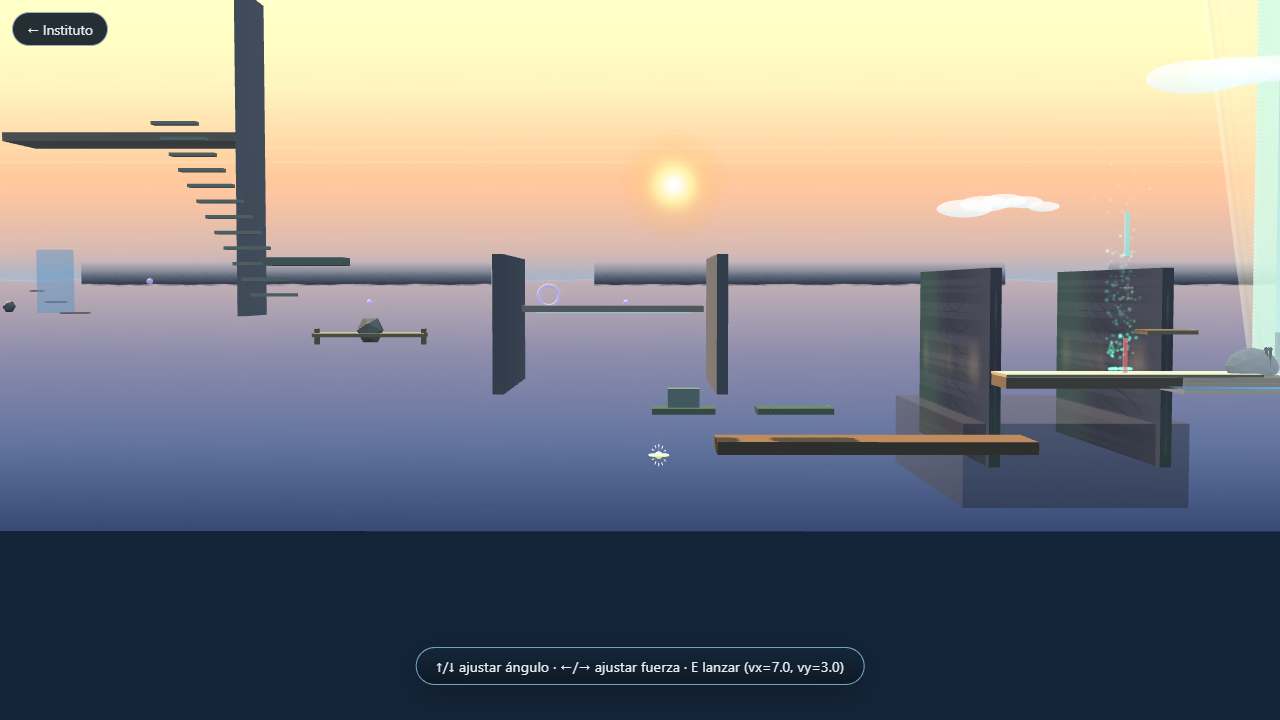
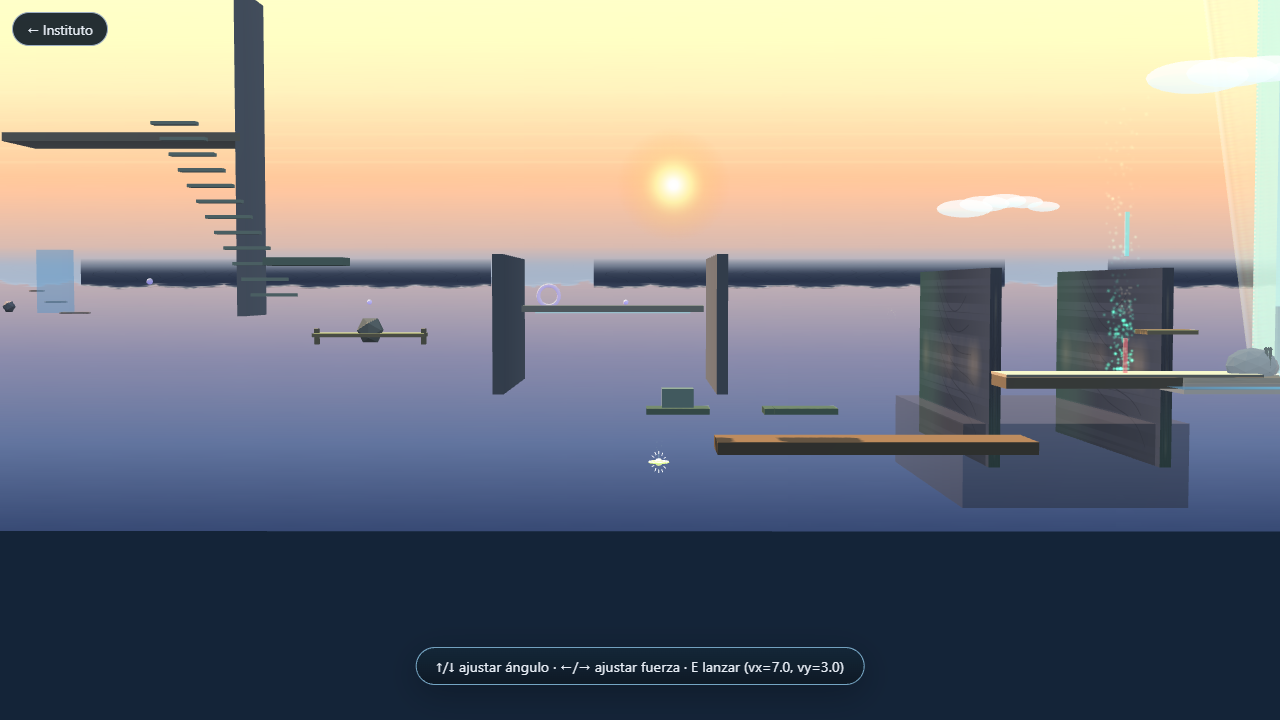
M0.5.2 Physica: rising-edge act/pred-sube + Scene 7 anillos real physics + Scene 8 velocity gate + cascadaObservada trigger

diff --git a/src/experiences/physica/babylonWorld.ts b/src/experiences/physica/babylonWorld.ts
@@ -954,6 +954,18 @@ export function createPhysicaWorld(hostEl: HTMLElement): PhysicaWorld {
   let anillo1Activo = false; // referencia
   let anillo2Activo = false; // vector
 
+  /* Estado analítico del contrapeso (Escena 7 anillo 0). Se integra con
+     `integrarInstrumento` a partir de la cobertura de la losa. El anillo
+     se activa cuando el modelo predice descenso Y la posición
+     realmente recorrida supera el umbral. */
+  const contrapesoYBase = estacionY + 3;
+  let contrapesoEstado: InstrumentoEstado = crearEstadoInstrumento(contrapesoYBase);
+  let contrapesoUpCover = 1;
+  /* Tiempo acumulado en el que la estación coincide con la plataforma
+     anclada (Escena 7 anillo 1). */
+  let anillo1TiempoEnMarco = 0;
+  const ANILLO1_TIEMPO_REQUERIDO = 1.5; // s
+
   const rocaFlotanteGeo = BABYLON.MeshBuilder.CreateIcoSphere('roca-flotante', { radius: 0.5, subdivisions: 1, flat: true }, scene);
   rocaFlotanteGeo.material = estilizado(0x7a7266, { alpha: 0.6, emissive: 0x5a5246 });
   rocaFlotanteGeo.position.set(estacionX + 8, estacionY + 8, 0);
@@ -1329,8 +1341,12 @@ export function createPhysicaWorld(hostEl: HTMLElement): PhysicaWorld {
         if (down && !input.jump) jumpEdge = true;
         input.jump = down;
         break;
-      case 'act': actEdge = down; break;
-      case 'pred-sube': predSubeEdge = down; break;
+      // Acciones de tipo "trigger": se arman en rising-edge (press=true).
+      // El release (down=false) NO las limpia — el update loop las consume
+      // y resetea. Esto permite que el harness invoque press(true) +
+      // press(false) en el mismo microtask sin perder el evento.
+      case 'act': if (down) actEdge = true; break;
+      case 'pred-sube': if (down) predSubeEdge = true; break;
       case 'bita': if (down) bitaEdge = true; break;
     }
   }
@@ -1495,21 +1511,14 @@ export function createPhysicaWorld(hostEl: HTMLElement): PhysicaWorld {
        Los tres anillos iluminan el material; la estación se estabiliza al
        completar los tres. */
 
-    if (planoInclinadoOk && !anillo0Activo && avatar.x >= W_E7_INICIO && avatar.x < W_E7_FIN &&
-        Math.abs(avatar.x - (estacionX + 5)) < 2 && Math.abs(avatar.y - (estacionY + 3)) < 1.5) {
-      losaEstacion.isVisible = true;
-      anillo0Activo = true;
-    anillos[0].material = anilloMat;
-    instrumento.speak('escena7_reconoce');
-    toast('Anillo exterior: la losa equilibra el contrapeso.');
-  }
-
-    if (planoInclinadoOk && !anillo1Activo && sistemaReferencia.anclajeIdx >= 0 &&
+    /* Escena 7 anillo 0/1 — la integración se hace en update(dt) para tener
+       acceso al paso de tiempo. Aquí sólo manejamos la visibilidad de la
+       losa cuando el jugador se acerca al contrapeso. */
+    if (planoInclinadoOk && !losaEstacion.isVisible &&
         avatar.x >= W_E7_INICIO && avatar.x < W_E7_FIN &&
-        Math.abs(avatar.x - (estacionX - 1.2)) < 1.6 && Math.abs(avatar.y - (estacionY + 0.7)) < 1.5) {
-      anillo1Activo = true;
-      anillos[1].material = anilloMat;
-      toast('Anillo medio: la estación adoptó la referencia de la plataforma.');
+        Math.abs(avatar.x - (estacionX + 5)) < 2 && avatar.y < estacionY + 2) {
+      losaEstacion.isVisible = true;
+      losaEstacion.position.set(estacionX + 5, estacionY + 0.6, 0);
     }
 
     if (planoInclinadoOk && !anillo2Activo && avatar.x >= W_E7_INICIO && avatar.x < W_E7_FIN &&
@@ -1535,8 +1544,13 @@ export function createPhysicaWorld(hostEl: HTMLElement): PhysicaWorld {
       metroUI.classList.remove('hidden');
     }
 
-    /* Escena 8: revelar metrópolis */
-    if (avatar.x >= W_E8_INICIO && !metropolisRevelada) {
+    /* Escena 8: revelar metrópolis (M0.5.1: requiere velocidad real).
+       El umbral espacial se mantiene, pero se exige que el avatar tenga
+       velocidad horizontal no nula — descartar un teleport estático o
+       un spawn. La consecuencia se ancla al estado de la estación
+       (Escena 7), no a un toggle aislado. */
+    if (avatar.x >= W_E8_INICIO && !metropolisRevelada &&
+        estacionEstabilizada && Math.abs(avatar.vx) > 0.3) {
       metropolisRevelada = true;
       save.flags = { ...save.flags, metropolisRevelada: true };
       guardarSave(save);
@@ -1860,6 +1874,16 @@ export function createPhysicaWorld(hostEl: HTMLElement): PhysicaWorld {
         piedraAterrizada = true;
         if (prediccion) resultadoObservado = resultadoPrediccion(prediccion);
         if (resultadoObservado === 'error') toast('La piedra cayó. El agua siguió subiendo.');
+        // La observación de la cascada se completa cuando la piedra aterriza:
+        // el jugador vio el agua subir y la piedra caer — los dos fenómenos.
+        // TODO(guion): disparar la entrada de bitácora con texto canónico
+        // cuando exista guion para "observación de la cascada".
+        if (!observada) {
+          observada = true;
+          save.flags = { ...save.flags, cascadaObservada: true };
+          guardarSave(save);
+          bitaBtn.classList.remove('hidden');
+        }
       } else if (p.x < W_INICIO - 0.5 || p.x > worldLimit + 0.5 || p.y > CIELO_Y + 4) {
         p.inFlight = false; p.restante = true; p.x = p.inicioX; p.y = PIEDRA_R; p.vx = 0; p.vy = 0;
       }
@@ -1957,6 +1981,52 @@ export function createPhysicaWorld(hostEl: HTMLElement): PhysicaWorld {
         saquitoEstacion.vx = 0; saquitoEstacion.vy = 0;
         saquitoEstacion.x = estacionX - 6; saquitoEstacion.y = estacionY + 2;
         saquitoEstacion.mesh.position.set(saquitoEstacion.x, saquitoEstacion.y, 0.05);
+      }
+    }
+
+    /* Escena 7 anillo 0 — equilibrio del contrapeso con física real.
+       La cobertura del chorro se deriva del offset horizontal de la losa
+       sobre el contrapeso; el estado del contrapeso se integra con
+       `integrarInstrumento` cada frame. El anillo se activa cuando el
+       modelo predice descenso Y la posición recorrida supera -0.3. */
+    if (planoInclinadoOk && !anillo0Activo && losaEstacion.isVisible &&
+        avatar.x >= W_E7_INICIO && avatar.x < W_E7_FIN) {
+      const offsetEst = Math.abs(losaEstacion.position.x - (estacionX + 5));
+      contrapesoUpCover = Math.max(0.15, Math.min(1, 0.95 - offsetEst * 0.35));
+      const fEst: FuerzasOpuestas = {
+        upAcc: 9.8, downAcc: 9.8, upCover: contrapesoUpCover,
+      };
+      contrapesoEstado = integrarInstrumento(contrapesoEstado, fEst, dt);
+      contraPesoGeo.position.y = Math.max(estacionY, contrapesoEstado.y);
+      const descendiendoEst = descensoPredecible(fEst) &&
+        desplazamientoDesdeCentro(contrapesoEstado, contrapesoYBase) < -0.3;
+      if (descendiendoEst) {
+        anillo0Activo = true;
+        anillos[0].material = anilloMat;
+        instrumento.speak('escena7_reconoce');
+        toast('Anillo exterior: el contrapeso desciende. La estación se equilibra.');
+      }
+    }
+
+    /* Escena 7 anillo 1 — referencia con física real (modelo puro).
+       La estación debe COINCIDIR con la plataforma anclada durante
+       ≥1.5s. La coincidencia se mide con `posicionPlataformaModelo`
+       (modelo de referenciaMovil.ts). */
+    if (planoInclinadoOk && !anillo1Activo && sistemaReferencia.anclajeIdx >= 0 &&
+        avatar.x >= W_E7_INICIO && avatar.x < W_E7_FIN) {
+      const xPlataforma = posicionPlataformaModelo(
+        sistemaReferencia.plataformas[sistemaReferencia.anclajeIdx], simT,
+      );
+      const dentroDelCorredor = Math.abs(estacionX - xPlataforma) < 0.8;
+      if (dentroDelCorredor) {
+        anillo1TiempoEnMarco += dt;
+        if (anillo1TiempoEnMarco >= ANILLO1_TIEMPO_REQUERIDO) {
+          anillo1Activo = true;
+          anillos[1].material = anilloMat;
+          toast('Anillo medio: la estación adoptó la referencia de la plataforma.');
+        }
+      } else {
+        anillo1TiempoEnMarco = 0;
       }
     }
 

diff --git a/docs/physica/audit/M0.5-qa-log.md b/docs/physica/audit/M0.5-qa-log.md
@@ -31,3 +31,27 @@ Format: ISO timestamp, cycle #, step (build | tests | playthrough), status, deta
 - **Root-cause hypothesis (read-only, not yet verified)**: the in-DOM harness probes (`__pxPress`, `__pxTeleport`, `__pxSnapshot`) are wired in `babylonRuntime.ts` dev-only. `piedrasInFlight=0` after a launch suggests the press/teleport pipeline may not be reaching the world's input handler — either the probe is mounted to a different runtime than the Babylon scene, or the action key mapping (`act` → ?) doesn't match the in-world activator. The Q-flag `planoInclinado:true` surviving reload proves `localStorage` round-trip is healthy, so the bug is downstream of input → scene logic, not in the save layer.
 
 ---
+
+## Cycle 2 — 2026-08-07T14:30Z
+
+### Build — PASS
+- `npm run build` in 26.48s, no TS errors.
+- Same chunk profile as cycle 1; `babylonRuntime` chunk-size warning persists.
+
+### Tests — PASS
+- `npm test` clean; W2–W7 + the previous suite all `OK`. No failures.
+
+### Playthrough — **FAIL (script flakiness, partial)**
+- First attempt: completed scenes 2-6, all flags stayed `false` (consistent with cycle 1). Failed at scene 7's reload (line 393) with `waitForSelector('canvas')` 60s timeout. Playwright log shows canvas DID become visible (`<canvas width="1280" height="720" data-engine="Babylon.js v9.19.1">`) and the page DID navigate to `http://localhost:5173/src/experiences/physica/`, but the navigation never completed (Vite dev rewrite `/physica` → `/src/experiences/physica/` is a 302 — see `vite.config.ts:42-60`).
+- Second attempt: failed at the *initial* `waitForCanvas` (line 166) with the same nav-stuck symptom.
+- Per-scene results before the failure (same as cycle 1):
+  - E2 cascada: `cascadaObservada = false`, `piedrasInFlight = 0`
+  - E3 equilibrio: `equilibrioResuelto = false`
+  - E4 referencia: `referenciaAnclada = false`
+  - E5 vector: `vectorComun = false`
+  - E6 plano: `planoInclinado = false`
+  - E7 / E8: not reached.
+- New console noise vs cycle 1: scene 5 emitted ~40+ BJS warnings `"You have used an option other than points with the instance option"` (likely cascada particle instances), all from the same scene window 14:33:51–14:33:53. Non-blocking.
+- 0 page errors. Save/load remains healthy (cycle 1 confirmed `planoInclinado` survives reload; this cycle didn't get to the station E-press).
+
+---
